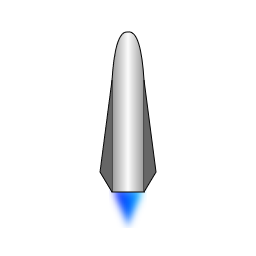
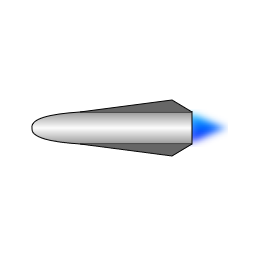
fixed movement can shoot projectiles
Projectiles need resizing

Changed region(s): [[0.125, 0.125, 0.9062, 0.9062]]

diff --git a/src/Entity.java b/src/Entity.java
@@ -9,6 +9,7 @@ public abstract class Entity {
 	private double orientation;
 	private Point position;
 	private boolean hasMoved;
+	public final int BULLET_SIZE = 50;
 
 	public Entity(BufferedImage img, double orientation, Point location) {
 		if (location == null)
@@ -20,17 +21,16 @@ public abstract class Entity {
 		this.origImg = img;
 		this.orientation = orientation;
 	}
-	
-	public void move(double distance)
-	{
+
+	public void move(double distance) {
 		double cos = Math.cos(orientation);
 		double sin = Math.sin(orientation);
 		double dx = distance * cos;
 		double dy = distance * sin;
-		System.out.println(new Point(dx,dy));
+		System.out.println(new Point(dx, dy));
 		double x = Math.round(position.x + dx);
 		double y = Math.round(position.y + dy);
-		position = new Point(x,y);
+		position = new Point(x, y);
 		hasMoved = true;
 	}
 
@@ -42,29 +42,41 @@ public abstract class Entity {
 		this.position = location;
 	}
 
-
 	public double getOrientation() {
 		return orientation;
 	}
-	
+
 	public abstract void update();
-	
-	public boolean hasMoved()
-	{
+
+	public boolean hasMoved() {
 		boolean old = hasMoved;
-		if(hasMoved)
+		if (hasMoved)
 			hasMoved = false;
-		else hasMoved = true;
+		else
+			hasMoved = true;
 		return old;
 	}
-	public void draw(Graphics2D g, Point corner)
-	{
-		int x = (int)Math.round(position.x - corner.x - img.getWidth() / 2);
-		int y = (int)Math.round(position.y - corner.y - img.getHeight() / 2);
-		AffineTransform tx = AffineTransform.getRotateInstance(orientation, img.getWidth() / 2, img.getHeight() / 2);
+
+	public void draw(Graphics2D g, Point corner) {
+		int x = (int) (position.x - corner.x - img.getWidth() / 2);
+		int y = (int) (position.y - corner.y - img.getHeight() / 2);
+		AffineTransform tx = AffineTransform.getRotateInstance(orientation,
+				img.getWidth() / 2, Math.round(img.getHeight() / 2));
 		AffineTransformOp op = new AffineTransformOp(tx,
 				AffineTransformOp.TYPE_BILINEAR);
 		g.drawImage(op.filter(origImg, null), x, y, null);
+	}
+
+	public void drawProjectile(Graphics2D g, Point corner, Ship ship) {
+		int x = (int) (position.x - corner.x - img.getWidth() / 2);
+		int y = (int) (position.y - corner.y - img.getHeight() / 2);
+		AffineTransform tx = AffineTransform.getRotateInstance(orientation,
+				img.getWidth() / 2, Math.round(img.getHeight() / 2));
+		AffineTransformOp op = new AffineTransformOp(tx,
+				AffineTransformOp.TYPE_BILINEAR);
+		/*g.drawImage(op.filter(origImg, null), x, y, origImg.getWidth(),
+				origImg.getHeight(), 0, 0, BULLET_SIZE, BULLET_SIZE, null);*/
+		g.drawImage(img, ship.getPosition().x, ship.getPosition().y, BULLET_SIZE, BULLET_SIZE, null);
 	}
 
 	public void setOrientation(double orientation) {

diff --git a/src/Utils.java b/src/Utils.java
@@ -1,33 +1,34 @@
+import java.awt.geom.AffineTransform;
+import java.awt.image.AffineTransformOp;
 import java.awt.image.BufferedImage;
 import java.io.IOException;
 
 import javax.imageio.ImageIO;
 
 public class Utils {
-	public Utils()
-	{
-		
-	}
-	
-	public static BufferedImage loadImage(String str)
-	{
+	public static BufferedImage loadImage(String str) {
 		Utils u = new Utils();
 		try {
 			return ImageIO.read(u.getClass().getResourceAsStream(str));
 		} catch (IOException e) {
 			e.printStackTrace();
-		}
-		catch (NullPointerException o){
+		} catch (NullPointerException o) {
 			System.out.println("IMAGE NOT FOUND");
 		}
 		return null;
 	}
-	
+
 	public static double getAngle(Point p1, Point p2) {
-        double xDiff = p2.x - p1.x;
-        double yDiff = p2.y - p1.y;
-        return (double) (Math.atan2(yDiff, xDiff) * (180 / Math.PI));
+		double xDiff = p2.x - p1.x;
+		double yDiff = p2.y - p1.y;
+		return (Math.atan2(yDiff, xDiff));
+	}
 
+	public static BufferedImage rotate(BufferedImage img, double radians) {
+		AffineTransform tx = AffineTransform.getRotateInstance(radians,
+				img.getWidth() / 2, Math.round(img.getHeight() / 2));
+		AffineTransformOp op = new AffineTransformOp(tx,
+				AffineTransformOp.TYPE_BILINEAR);
+		return op.filter(img, null);
+	}
 }
-}
-

diff --git a/src/Screen.java b/src/Screen.java
@@ -12,7 +12,7 @@ import javax.swing.Timer;
 public class Screen extends JPanel {
 	protected ArrayList<Entity> entities = new ArrayList<Entity>();
 	private Listener listener = new Listener(this);
-	Timer timer = new Timer(10, listener);
+	Timer timer = new Timer(1, listener);
 	int i = 0;
 	protected PlayerShip player = new PlayerShip(0.0, new Point(500, 500), this);
 	private BufferedImage background = Utils.loadImage("space.png");
@@ -29,21 +29,22 @@ public class Screen extends JPanel {
 		setVisible(true);
 	}
 
-	public void paintComponent(Graphics g)
-	{
+	public void paintComponent(Graphics g) {
 		super.paintComponent(g);
 		Graphics2D g2 = (Graphics2D) g;
-		Point corner = new Point(getBounds().x,getBounds().y);
+		Point corner = new Point(getBounds().x, getBounds().y);
 		for (int i = 0; i < getWidth(); i += background.getWidth()) {
 			for (int j = 0; j < getHeight(); j += background.getHeight()) {
 				g.drawImage(background, i, j, null);
 			}
 		}
-		for(int i = 0; i < entities.size(); i++)
-		{
+		for (int i = 0; i < entities.size(); i++) {
 			Entity e = entities.get(i);
 			e.update();
-			e.draw(g2, corner);
+/*			if (e instanceof Projectile)
+				e.drawProjectile(g2, corner, player);
+			else*/
+				e.draw(g2, corner);
 		}
 	}
 

diff --git a/src/Projectile.java b/src/Projectile.java
@@ -1,19 +1,20 @@
 import java.awt.image.BufferedImage;
 
 public class Projectile extends Entity {
-	private final int damage;
-	public static final int BULLET_VELOCITY = 10;
+	protected final int damage;
+	protected static final int BULLET_VELOCITY = 10;
 	private final int velocity;
 
 	public Projectile(BufferedImage img, Point location, double orientation, int damage, int velocity) {
-		super(img, orientation, location);
+		super(Utils.rotate(img, Math.toRadians(90)), orientation, location);
+		
 		this.damage = damage;
 		this.velocity = velocity;
 	}
 	
 	public void update()
 	{	
-		
+		move(BULLET_VELOCITY);
 	}
 
 }

diff --git a/src/Ship.java b/src/Ship.java
@@ -34,5 +34,11 @@ public abstract class Ship extends Entity {
 		super.draw(g, corner);
 		turret.draw(g, corner);
 	}
+	
+	public void fire()
+	{
+		System.out.println("FIRE");
+		screen.entities.add(new Projectile(turret.projectile.img, getPosition(),turret.projectile.getOrientation(), turret.projectile.damage, turret.projectile.BULLET_VELOCITY));
+	}
 
 }

diff --git a/src/Turret.java b/src/Turret.java
@@ -2,7 +2,7 @@ import java.awt.image.BufferedImage;
 
 
 public class Turret extends Entity {
-	private Projectile projectile;
+	protected Projectile projectile;
 
 	public Turret(BufferedImage img, double orientation, int fireRate, Projectile projectile, Screen screen) {
 		super(img, orientation, null);
